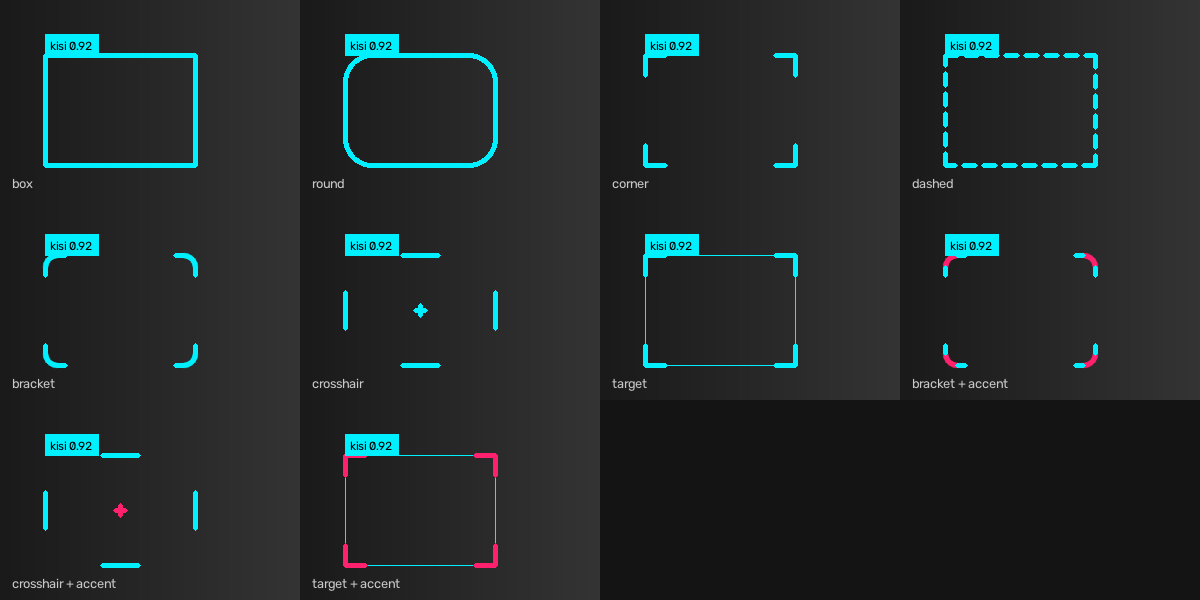
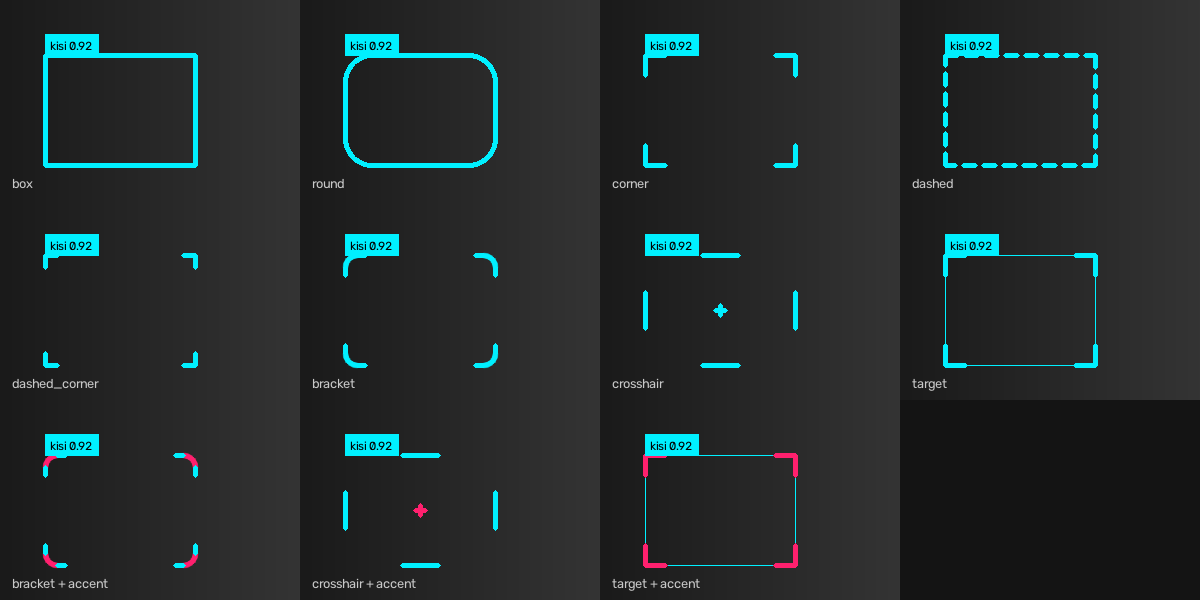
themes: add the dashed corner style

diff --git a/docs/index.html b/docs/index.html
@@ -183,6 +183,7 @@
           <button data-value="round" type="button">yuvarlak</button>
           <button data-value="corner" type="button">köşe</button>
           <button data-value="dashed" type="button">kesikli</button>
+          <button data-value="dashed_corner" type="button">kesikli köşe</button>
           <button data-value="bracket" type="button">ayraç</button>
           <button data-value="crosshair" type="button">artı</button>
           <button data-value="target" type="button">hedef</button>
@@ -196,15 +197,15 @@
         <label class="title" for="roundness">Yuvarlama <b id="roundnessOut"></b></label>
         <input type="range" id="roundness" min="0.05" max="1" step="0.05">
       </div>
-      <div class="row" data-only="corner bracket target">
+      <div class="row" data-only="corner dashed_corner bracket target">
         <label class="title" for="cornerLength">Köşe uzunluğu <b id="cornerLengthOut"></b></label>
         <input type="range" id="cornerLength" min="5" max="60" step="1">
       </div>
-      <div class="row" data-only="dashed">
+      <div class="row" data-only="dashed dashed_corner">
         <label class="title" for="dashLength">Çizgi boyu <b id="dashLengthOut"></b></label>
         <input type="range" id="dashLength" min="2" max="40" step="1">
       </div>
-      <div class="row" data-only="dashed">
+      <div class="row" data-only="dashed dashed_corner">
         <label class="title" for="gapLength">Boşluk <b id="gapLengthOut"></b></label>
         <input type="range" id="gapLength" min="2" max="40" step="1">
       </div>
@@ -352,7 +353,11 @@ const URL_KEYS = {
   g: "glow", gt: "glowThickness", gd: "glowDim",
   l: "labels", tc: "textColor", ts: "textScale", tp: "textPadding", lr: "labelRadius",
 };
-const BOX_STYLES = ["box", "round", "corner", "dashed", "bracket", "crosshair", "target"];
+const BOX_STYLES = [
+  "box", "round", "corner", "dashed", "dashed_corner", "bracket", "crosshair", "target",
+];
+const CORNER_STYLES = ["corner", "dashed_corner", "bracket", "target"];
+const DASH_STYLES = ["dashed", "dashed_corner"];
 const ACCENT_STYLES = ["bracket", "crosshair", "target"];
 const MAX_COLORS = 8;
 
@@ -466,10 +471,8 @@ function shareUrl() {
   params.set("t", String(state.thickness));
   if (usesAccent()) params.set("a", state.accent.slice(1));
   if (["round", "bracket"].includes(state.boxStyle)) params.set("r", String(state.roundness));
-  if (["corner", "bracket", "target"].includes(state.boxStyle)) {
-    params.set("c", String(state.cornerLength));
-  }
-  if (state.boxStyle === "dashed") {
+  if (CORNER_STYLES.includes(state.boxStyle)) params.set("c", String(state.cornerLength));
+  if (DASH_STYLES.includes(state.boxStyle)) {
     params.set("dl", String(state.dashLength));
     params.set("gl", String(state.gapLength));
   }
@@ -515,13 +518,10 @@ function pythonCode() {
   if (["round", "bracket"].includes(state.boxStyle) && state.roundness !== DEFAULTS.roundness) {
     lines.push("    roundness=" + state.roundness + ",");
   }
-  if (
-    ["corner", "bracket", "target"].includes(state.boxStyle)
-    && state.cornerLength !== DEFAULTS.cornerLength
-  ) {
+  if (CORNER_STYLES.includes(state.boxStyle) && state.cornerLength !== DEFAULTS.cornerLength) {
     lines.push("    corner_length=" + state.cornerLength + ",");
   }
-  if (state.boxStyle === "dashed") {
+  if (DASH_STYLES.includes(state.boxStyle)) {
     if (state.dashLength !== DEFAULTS.dashLength) {
       lines.push("    dash_length=" + state.dashLength + ",");
     }
@@ -626,6 +626,23 @@ function strokeBox(box, colour, thickness, accent) {
     ctx.lineCap = "butt";
     ctx.setLineDash([state.dashLength, state.gapLength]);
     ctx.strokeRect(x1, y1, width, height);
+    ctx.setLineDash([]);
+    return;
+  }
+
+  if (state.boxStyle === "dashed_corner") {
+    const arm = Math.min(state.cornerLength, shortSide / 2);
+    ctx.lineCap = "butt";
+    ctx.setLineDash([state.dashLength, state.gapLength]);
+    ctx.beginPath();
+    for (const [ix, iy, dx, dy] of CORNERS) {
+      const cx = box[ix];
+      const cy = box[iy];
+      // Her kol köşeden dışa doğru çizilir ki kesikler köşede hizalı başlasın.
+      ctx.moveTo(cx, cy); ctx.lineTo(cx + dx * arm, cy);
+      ctx.moveTo(cx, cy); ctx.lineTo(cx, cy + dy * arm);
+    }
+    ctx.stroke();
     ctx.setLineDash([]);
     return;
   }

diff --git a/src/cvflair/annotators.py b/src/cvflair/annotators.py
@@ -25,6 +25,7 @@ from supervision.annotators.utils import resolve_color
 
 __all__ = [
     "DashedBoxAnnotator",
+    "DashedCornerAnnotator",
     "BracketBoxAnnotator",
     "CrosshairAnnotator",
     "TargetBoxAnnotator",
@@ -119,6 +120,42 @@ class DashedBoxAnnotator(_OutlineAnnotator):
             _dashed_line(
                 scene, start, end, colour, self.thickness, self.dash_length, self.gap_length
             )
+
+
+class DashedCornerAnnotator(_OutlineAnnotator):
+    """
+    Corner arms drawn as dashes -- the corner and dashed styles combined.
+
+    Only the corners are drawn, and each arm is broken into dashes, so the frame
+    stays light while still marking where the detection is.
+    """
+
+    def __init__(
+        self,
+        *args: Any,
+        corner_length: int = 26,
+        dash_length: int = 7,
+        gap_length: int = 5,
+        **kwargs: Any,
+    ):
+        super().__init__(*args, **kwargs)
+        self.corner_length = max(1, int(corner_length))
+        self.dash_length = max(1, int(dash_length))
+        self.gap_length = max(1, int(gap_length))
+
+    def draw(self, scene, box, colour, accent) -> None:
+        x1, y1, x2, y2 = box
+        width, height = x2 - x1, y2 - y1
+        if width <= 0 or height <= 0:
+            return
+
+        arm = int(min(self.corner_length, min(width, height) / 2))
+        for cx, cy, dx, dy in ((x1, y1, 1, 1), (x2, y1, -1, 1), (x1, y2, 1, -1), (x2, y2, -1, -1)):
+            for end in ((cx + dx * arm, cy), (cx, cy + dy * arm)):
+                _dashed_line(
+                    scene, (cx, cy), end, colour, self.thickness,
+                    self.dash_length, self.gap_length,
+                )
 
 
 class BracketBoxAnnotator(_OutlineAnnotator):

diff --git a/tests/test_annotators.py b/tests/test_annotators.py
@@ -11,10 +11,17 @@ from cvflair.annotators import (
     BracketBoxAnnotator,
     CrosshairAnnotator,
     DashedBoxAnnotator,
+    DashedCornerAnnotator,
     TargetBoxAnnotator,
 )
 
-ANNOTATORS = [DashedBoxAnnotator, BracketBoxAnnotator, CrosshairAnnotator, TargetBoxAnnotator]
+ANNOTATORS = [
+    DashedBoxAnnotator,
+    DashedCornerAnnotator,
+    BracketBoxAnnotator,
+    CrosshairAnnotator,
+    TargetBoxAnnotator,
+]
 
 RED = sv.ColorPalette([sv.Color(r=255, g=0, b=0)])
 BLUE = sv.ColorPalette([sv.Color(r=0, g=0, b=255)])
@@ -97,6 +104,31 @@ def test_longer_dashes_cover_more(detections):
     )
 
     assert painted(long) > painted(short)
+
+
+def test_dashed_corner_keeps_the_edge_middles_empty(detections):
+    frame = blank()
+
+    DashedCornerAnnotator(color=RED, corner_length=14, thickness=2).annotate(
+        scene=frame, detections=detections
+    )
+
+    x1, y1, x2, y2 = detections.xyxy[0].astype(int)
+    middle = frame[y1 - 1 : y1 + 2, (x1 + x2) // 2 - 3 : (x1 + x2) // 2 + 4]
+    assert not middle.any(), "corner style should not reach the middle of an edge"
+
+
+def test_dashed_corner_is_lighter_than_a_solid_corner(detections):
+    solid, dashed = blank(), blank()
+
+    sv.BoxCornerAnnotator(color=RED, thickness=2, corner_length=26).annotate(
+        scene=solid, detections=detections
+    )
+    DashedCornerAnnotator(
+        color=RED, thickness=2, corner_length=26, dash_length=5, gap_length=5
+    ).annotate(scene=dashed, detections=detections)
+
+    assert 0 < painted(dashed) < painted(solid) * 0.8
 
 
 def test_bracket_draws_straight_arms_next_to_the_elbow(detections):

diff --git a/src/cvflair/themes.py b/src/cvflair/themes.py
@@ -22,16 +22,21 @@ from .annotators import (
     BracketBoxAnnotator,
     CrosshairAnnotator,
     DashedBoxAnnotator,
+    DashedCornerAnnotator,
     TargetBoxAnnotator,
 )
 
 __all__ = ["Theme", "get_theme", "available_themes", "BoxStyle", "BOX_STYLES"]
 
-BoxStyle = Literal["box", "round", "corner", "dashed", "bracket", "crosshair", "target"]
+BoxStyle = Literal[
+    "box", "round", "corner", "dashed", "dashed_corner", "bracket", "crosshair", "target"
+]
 
 #: Every accepted ``box_style``. The first three come from ``supervision``, the
 #: rest from :mod:`cvflair.annotators`.
-BOX_STYLES: tuple[str, ...] = ("box", "round", "corner", "dashed", "bracket", "crosshair", "target")
+BOX_STYLES: tuple[str, ...] = (
+    "box", "round", "corner", "dashed", "dashed_corner", "bracket", "crosshair", "target",
+)
 
 
 def _dim(color: sv.Color, factor: float) -> sv.Color:
@@ -152,6 +157,14 @@ class Theme:
             return DashedBoxAnnotator(
                 **common,
                 accent_color=accent,
+                dash_length=self.dash_length,
+                gap_length=self.gap_length,
+            )
+        if self.box_style == "dashed_corner":
+            return DashedCornerAnnotator(
+                **common,
+                accent_color=accent,
+                corner_length=self.corner_length,
                 dash_length=self.dash_length,
                 gap_length=self.gap_length,
             )

diff --git a/tests/test_themes.py b/tests/test_themes.py
@@ -12,6 +12,7 @@ from cvflair.annotators import (
     BracketBoxAnnotator,
     CrosshairAnnotator,
     DashedBoxAnnotator,
+    DashedCornerAnnotator,
     TargetBoxAnnotator,
 )
 from cvflair.themes import BOX_STYLES
@@ -69,6 +70,7 @@ def test_theme_rejects_non_string():
         ("round", sv.RoundBoxAnnotator),
         ("corner", sv.BoxCornerAnnotator),
         ("dashed", DashedBoxAnnotator),
+        ("dashed_corner", DashedCornerAnnotator),
         ("bracket", BracketBoxAnnotator),
         ("crosshair", CrosshairAnnotator),
         ("target", TargetBoxAnnotator),

diff --git a/src/cvflair/__init__.py b/src/cvflair/__init__.py
@@ -17,6 +17,7 @@ from .annotators import (
     BracketBoxAnnotator,
     CrosshairAnnotator,
     DashedBoxAnnotator,
+    DashedCornerAnnotator,
     TargetBoxAnnotator,
 )
 from .camera import Camera, CameraError
@@ -32,6 +33,7 @@ __all__ = [
     "CameraError",
     "CrosshairAnnotator",
     "DashedBoxAnnotator",
+    "DashedCornerAnnotator",
     "Detector",
     "TargetBoxAnnotator",
     "Theme",

diff --git a/CHANGELOG.md b/CHANGELOG.md
@@ -6,9 +6,10 @@ Paket henüz PyPI'da yayınlanmadı; sürümler depo içi kilometre taşlarıdı
 ## 0.3.0
 
 ### Eklendi
-- Dört yeni çerçeve biçimi (`cvflair.annotators`): `dashed` (kesikli), `bracket`
-  (yuvarlak dirsekli köşe ayracı), `crosshair` (kenar ortası çentikleri + merkez artı),
-  `target` (ince çerçeve + kalın köşeler). Hepsi `supervision`'ın `BaseAnnotator`
+- Beş yeni çerçeve biçimi (`cvflair.annotators`): `dashed` (kesikli), `dashed_corner`
+  (kesikli çizgiyle köşe çentikleri), `bracket` (yuvarlak dirsekli köşe ayracı),
+  `crosshair` (kenar ortası çentikleri + merkez artı), `target` (ince çerçeve + kalın
+  köşeler). Hepsi `supervision`'ın `BaseAnnotator`
   arayüzünü ve `resolve_color` renk çözümlemesini kullanıyor, yani palet ve
   `ColorLookup` davranışı yerleşik annotator'larla aynı.
 - `Theme.accent_palette`: ayraç dirsekleri, artı merkezi ve hedef köşeleri için ikinci
@@ -16,12 +17,12 @@ Paket henüz PyPI'da yayınlanmadı; sürümler depo içi kilometre taşlarıdı
 - `cyberpunk` teması — yüksek kontrastlı palet, `target` biçimi, beyaz vurgu.
 - Yeni tema alanları: `dash_length`, `gap_length`, `arm_length`, `center_size`,
   `edge_thickness`. Geçerli biçimler `cvflair.BOX_STYLES` içinde.
-- Playground yedi biçimi de destekliyor; ilgili ayarlar seçilen biçime göre görünüyor.
+- Playground sekiz biçimi de destekliyor; ilgili ayarlar seçilen biçime göre görünüyor.
 
 ### Not
-Bu sürüm, "çizim matematiği yeniden yazılmaz" ilkesinden bilinçli bir sapma: kesikli,
-ayraç, artı ve hedef biçimleri `supervision`'da yok, bu dört annotator cvflair'in bakım
-sorumluluğunda. Kutu/yuvarlak/köşe biçimleri hâlâ doğrudan `supervision`'dan geliyor.
+Bu sürüm, "çizim matematiği yeniden yazılmaz" ilkesinden bilinçli bir sapma: bu beş
+biçim `supervision`'da yok, dolayısıyla bakım sorumluluğu cvflair'de.
+Kutu/yuvarlak/köşe biçimleri hâlâ doğrudan `supervision`'dan geliyor.
 
 ### Eklendi (playground)
 - [Tema playground](https://kbycode.github.io/cvflair/) (`docs/index.html`): temalar
